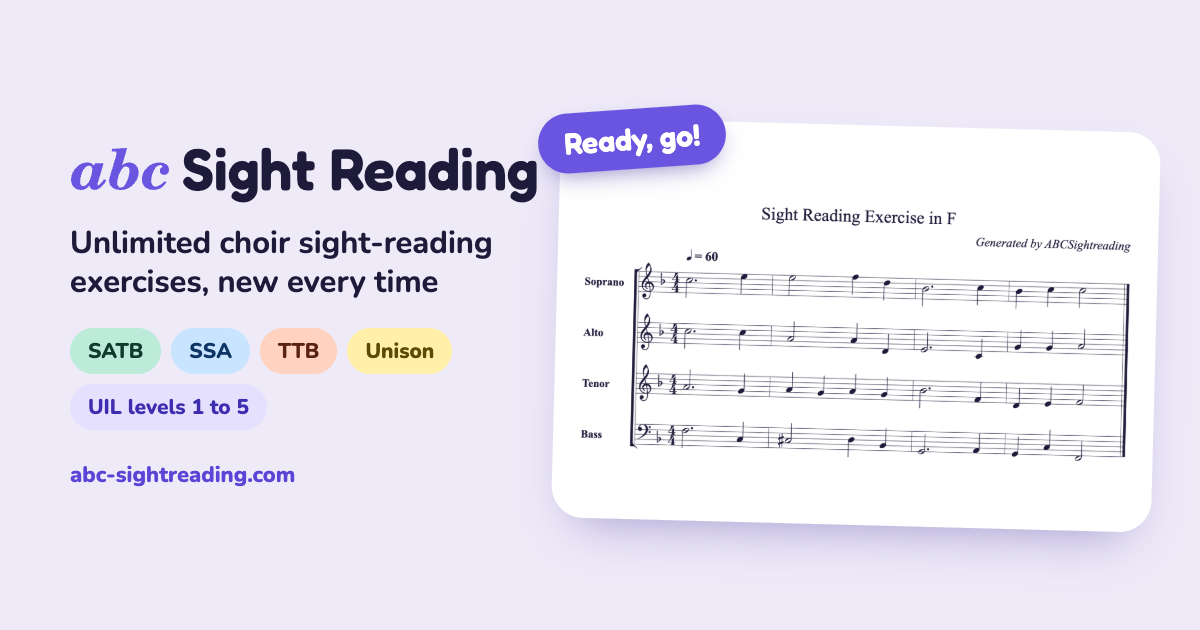
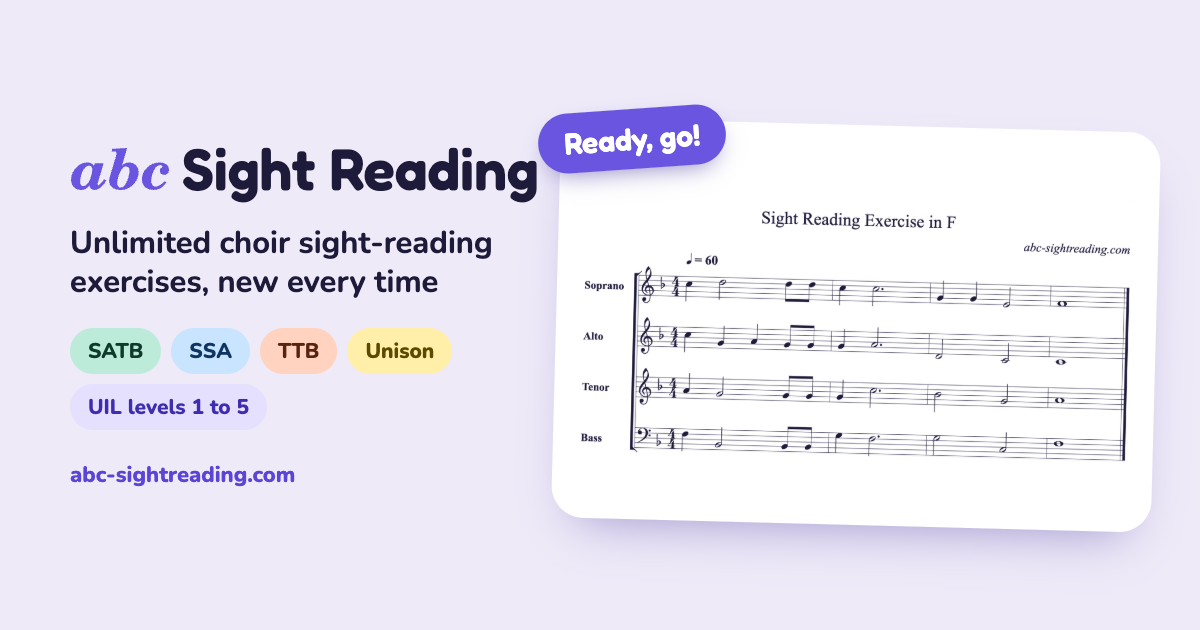
polish: no mid-sentence dashes, the site's address on every score, tempo changes that do not throw
- The settings' notes and labels read with commas, colons and full stops;
  "Key — major" is "Major keys".
- Scores are credited abc-sightreading.com, so a printed copy says where it
  came from. The share image redrawn with it, from the default settings.
- The Choral player builds abcjs's (hidden) tempo box. Every tempo change
  writes to it, and without it setWarp threw part way through: after Stop,
  and mid-play before playback resumed.

diff --git a/src/components/AbcjsChoral.svelte b/src/components/AbcjsChoral.svelte
@@ -1790,7 +1790,10 @@
         applyMixLevels(tracks, { playback: playbackVolume, metronome: metronomeVolume }),
     };
     await synthControl.setTune(tune, false, audioParams);
-    await synthControl.load("#audio", cursorControl);
+    // displayWarp builds abcjs's tempo box in the hidden #audio div. Nothing
+    // shows it, but setWarp (every tempo change) writes to it, and without it
+    // threw part way through: after a Stop, or mid-play before it resumed.
+    await synthControl.load("#audio", cursorControl, { displayWarp: true });
   }
 
   // ── Main generate handler ─────────────────────────────────────────────────
@@ -1913,7 +1916,7 @@
     if (!rhythmsCanFill) {
       generationError =
         `These rhythms cannot fill a bar of ${selectedTimeSignature}. ` +
-        `Add a shorter note - a quarter or an eighth - or change the time signature.`;
+        `Add a shorter note (a quarter or an eighth), or change the time signature.`;
       return;
     }
 
@@ -2253,7 +2256,7 @@
                 <div class="space-y-2 {minorRow ? 'pt-1' : ''}">
                   <div class="flex items-baseline justify-between gap-3">
                     <span class="flex items-baseline gap-2">
-                      <span class="sr-label">Key &mdash; {minorRow ? 'minor' : 'major'}</span>
+                      <span class="sr-label">{minorRow ? 'Minor keys' : 'Major keys'}</span>
                       <span class="text-xs text-sr-faint tabular-nums">{chosen} of {rowKeys.length}</span>
                     </span>
                     <span class="inline-flex items-center gap-0.5 shrink-0">
@@ -2305,13 +2308,13 @@
               {/each}
               {#if selectedKeys.size > 1}
                 <p class="text-xs text-sr-faint">
-                  {selectedKeys.size} keys selected - one is drawn at random each
+                  {selectedKeys.size} keys selected. One is drawn at random each
                   time you generate. Click a key to remove it.
                 </p>
               {/if}
               {#if activePreset}
                 <p class="text-xs text-sr-faint">
-                  Dimmed keys are outside {activePreset.label}, not removed - pick
+                  Dimmed keys are outside {activePreset.label}, not removed. Pick
                   one and you simply leave the level.
                 </p>
               {/if}
@@ -2361,7 +2364,7 @@
                   {:else if formPlan && fullLengthRange}
                     <div class="space-y-1">
                       <p class="sr-label">
-                        Length &mdash; level {fullLengthLevel} wants {fullLengthRange[0]}&ndash;{fullLengthRange[1]} bars in {selectedTimeSignature}
+                        Length: level {fullLengthLevel} wants {fullLengthRange[0]}&ndash;{fullLengthRange[1]} bars in {selectedTimeSignature}
                       </p>
                       <div class="flex flex-wrap gap-2" role="group" aria-label="Full length">
                         {#each [fullLengthRange[0], Math.round((fullLengthRange[0] + fullLengthRange[1]) / 2), fullLengthRange[1]] as opt}
@@ -2398,7 +2401,7 @@
                       {#if formPlan.shortEndingBar}
                         A lower level may stop at bar {formPlan.shortEndingBar}.
                       {/if}
-                      Always major &mdash; minor keys are for the shorter exercises above.
+                      Always major. Minor keys are for the shorter exercises above.
                     </p>
                     <p class="text-xs text-sr-brass">
                       Sections marked &ldquo;toward V&rdquo; or &ldquo;toward vi&rdquo; are planned but not yet
@@ -2414,7 +2417,7 @@
               <p class="sr-label">Voice texture</p>
               {#if fullLength}
                 <p class="text-xs text-sr-muted">
-                  The form decides this per section for a full-length piece &mdash; the imitative
+                  The form decides this per section for a full-length piece: the imitative
                   passage gets staggered entrances and the rest all voices.
                 </p>
               {/if}
@@ -2432,7 +2435,7 @@
                 {voiceTexture === "full"
                   ? "Every part sings throughout, apart from rests in the rhythm."
                   : measures < 12
-                    ? "Parts drop out for a few measures at a time - needs 12 measures or more. Every part is there for the opening and the cadence."
+                    ? "Parts drop out for a few measures at a time. Needs 12 measures or more. Every part is there for the opening and the cadence."
                     : "Parts drop out for a few measures at a time. Every part is there for the opening and the cadence."}
               </p>
             </div>
@@ -2461,7 +2464,7 @@
                 </select>
               </div>
               <p class="text-xs text-sr-faint">
-                Changes the sound straight away - the exercise stays as it is.
+                Changes the sound straight away. The exercise stays as it is.
               </p>
             </div>
 
@@ -2516,14 +2519,14 @@
                   Chord symbols above the top staff{lyricSystem ? ", " : "."}
                 {/if}
                 {#if lyricSystem === "movable"}
-                  Movable do under each part - do is the tonic, so a tune reads the same in
+                  Movable do under each part: do is the tonic, so a tune reads the same in
                   every key.
                 {:else if lyricSystem === "fixed"}
-                  Fixed do under each part - C is do whatever the key.
+                  Fixed do under each part: C is do whatever the key.
                 {:else if lyricSystem === "names"}
                   The note names under each part.
                 {:else if !showChords}
-                  Clean - the same exercise, printed for sight-reading.
+                  Clean: the same exercise, printed for sight-reading.
                 {/if}
               </p>
             </div>
@@ -2625,7 +2628,7 @@
                   {/each}
                 </div>
                 <p class="text-xs text-sr-faint">
-                  Sixteenths are kept rare on purpose - a sung exercise lives on
+                  Sixteenths are kept rare on purpose, since a sung exercise lives on
                   quarters and halves. Turn one up here if you want to drill it.
                 </p>
               </div>
@@ -2639,7 +2642,7 @@
             {#if activePreset}
               <p class="text-xs text-sr-faint">
                 Dimmed rhythms are outside {activePreset.label}. They are still
-                available - picking one just takes you off the level.
+                available. Picking one just takes you off the level.
               </p>
             {/if}
           </div>
@@ -2709,7 +2712,7 @@
                   Pick a chromatic chord to drill: every exercise is built around it, usually
                   more than once, and the other chromatic chords are left out.
                 {:else if [...selectedKeys].every((k) => isMinorKey(k))}
-                  Only minor keys are selected, and these are major-key chords - add a major key
+                  Only minor keys are selected, and these are major-key chords. Add a major key
                   for the focus to apply.
                 {:else}
                   Every exercise in a major key uses {fullChordSet.find(c => c.name === focusChord)?.symbol},
@@ -2765,7 +2768,7 @@
                 <input type="checkbox" bind:checked={stepwiseEighths} class="sr-check" />
                 Eighth notes move by step
               </label>
-              <p class="text-xs text-sr-faint">Stepwise or repeated - no skips into or out of an eighth</p>
+              <p class="text-xs text-sr-faint">Stepwise or repeated: no skips into or out of an eighth</p>
             </div>
 
             <!-- Max Skip -->
@@ -2811,7 +2814,7 @@
     {#if !rhythmsCanFill}
       <p class="text-sm text-sr-brass bg-sr-brass-bg border border-sr-brass rounded-md px-3 py-2 my-2">
         The selected rhythms cannot fill a bar of {selectedTimeSignature}, so nothing
-        can be generated. Add a shorter note - a quarter or an eighth - or change
+        can be generated. Add a shorter note (a quarter or an eighth), or change
         the time signature.
       </p>
     {/if}
@@ -2825,7 +2828,7 @@
     {#if roughSeams.length > 0}
       <p class="text-sm text-sr-brass bg-sr-brass-bg border border-sr-brass rounded-md px-3 py-2 my-2">
         The join after {roughSeams.length === 1 ? "section" : "sections"}
-        {roughSeams.join(", ")} could not be made smooth after several tries &mdash; there may be a
+        {roughSeams.join(", ")} could not be made smooth after several tries. There may be a
         wide leap or a stranded accidental where that section ends. Generating again usually
         clears it.
       </p>

diff --git a/src/components/AbcjsSingle.svelte b/src/components/AbcjsSingle.svelte
@@ -3265,9 +3265,9 @@
               <p class="text-xs text-sr-faint">
                 {rhythmOnly
                   ? (rhythmSoundFor(rhythmSoundId).kind === "click"
-                      ? "A click - every note sounds the same length. Good for attacks."
+                      ? "A click: every note sounds the same length. Good for attacks."
                       : "Sustains, so a held note is heard held.")
-                  : "Changes the sound straight away - the exercise stays as it is."}
+                  : "Changes the sound straight away. The exercise stays as it is."}
               </p>
             </div>
 
@@ -3318,12 +3318,12 @@
               </div>
               <p class="text-xs text-sr-faint">
                 {#if !showSolfege}
-                  Clean - the same exercise, printed for sight-reading.
+                  Clean: the same exercise, printed for sight-reading.
                 {:else if lyricSystem === "movable"}
-                  Movable do under the staff - do is the tonic, so a tune reads the same in
+                  Movable do under the staff: do is the tonic, so a tune reads the same in
                   every key.
                 {:else if lyricSystem === "fixed"}
-                  Fixed do under the staff - C is do whatever the key.
+                  Fixed do under the staff: C is do whatever the key.
                 {:else}
                   The note names under the staff.
                 {/if}
@@ -3468,7 +3468,7 @@
               <div class="space-y-2 sm:col-span-2 border-t border-sr-hairline pt-3">
                 <p class="sr-label">On The Repeats</p>
                 <p class="text-xs text-sr-faint">
-                  The first pass is always your own settings - that is the one
+                  The first pass is always your own settings, since that is the one
                   being sight-read. These are what comes back on the way through again.
                 </p>
 
@@ -3559,7 +3559,7 @@
                         ? 'The repeats click if the metronome is on.'
                         : drillRepeatMetronome === 'on'
                           ? 'The click comes in on the repeats, even with the metronome off.'
-                          : 'No click on the repeats - keep the beat yourself.'}
+                          : 'No click on the repeats. Keep the beat yourself.'}
                     </p>
                   </div>
 
@@ -3609,11 +3609,11 @@
                 {#if repeatsSilent}
                   <p class="text-xs text-sr-faint">
                     Nothing sounds on the repeats. The music still runs, so a repeat takes
-                    exactly as long as the first pass - only the cursor moves.
+                    exactly as long as the first pass. Only the cursor moves.
                   </p>
                 {:else if repeatCountInSilent}
                   <p class="text-xs text-sr-faint">
-                    With no click on the repeats, their count-in is a silent bar - the repeat
+                    With no click on the repeats, their count-in is a silent bar, and the repeat
                     still waits it out.
                   </p>
                 {/if}
@@ -3722,14 +3722,14 @@
                 <p class="text-xs text-sr-faint">
                   {showRhythmSyllables
                     ? syllableHint
-                    : 'No syllables. The exercise is unchanged - turning them back on costs nothing.'}
+                    : 'No syllables. The exercise is unchanged, and turning them back on costs nothing.'}
                   {#if $mySyllables}
                     <a class="underline ml-1" href="/account#syllables">Edit mine</a>
                   {:else if $syllablesAvailable}
                     <a class="underline ml-1" href="/account#syllables">Use your own syllables</a>
                   {/if}
                 </p>
-                <SignupHint id="own-syllables">Want the words your choir uses - ta-a, ti-ka, whatever you teach?</SignupHint>
+                <SignupHint id="own-syllables">Want the words your choir uses (ta-a, ti-ka, whatever you teach)?</SignupHint>
               </div>
             {/if}
           </div>

diff --git a/src/lib/failure-hint.ts b/src/lib/failure-hint.ts
@@ -72,7 +72,7 @@ export function failureHint(ctx: FailureContext): string {
   // and the cells it fails in are exactly the ones the next hint describes:
   // sixteen bars, three or more close parts, minor keys at level 5.
   if (stepwiseEighths && parts.length >= 3 && measures >= 16) {
-    return `Holding eighth notes to a step is what usually makes this combination unwritable - sixteen bars in three or more close parts leaves the voices nowhere to step to. Turn off "Eighth notes move by step" under Rhythm, try 8 bars, or ${room}.`;
+    return `Holding eighth notes to a step is what usually makes this combination unwritable: sixteen bars in three or more close parts leaves the voices nowhere to step to. Turn off "Eighth notes move by step" under Rhythm, try 8 bars, or ${room}.`;
   }
   if (parts.length >= 3 && measures >= 16) {
     return `Sixteen bars in three or more close parts is the hardest thing to ask for. Try 8 bars instead, or ${room}.`;
@@ -82,7 +82,7 @@ export function failureHint(ctx: FailureContext): string {
   if (parts.length >= 3 && tightest !== null && span(tightest) <= 10) {
     // Names the part once. Composing this from `roomHint` said "the Tenor"
     // twice in one breath.
-    return `The ${tightest.name} has the least room of any part here, and three or more voices need somewhere to go. Give it a step or two more at the top, under Voice Ranges - that is usually the end that helps.`;
+    return `The ${tightest.name} has the least room of any part here, and three or more voices need somewhere to go. Give it a step or two more at the top, under Voice Ranges. That is usually the end that helps.`;
   }
   if (chordCount <= 4) {
     return "With this few chords there may be nowhere left for the bass to go. Switching one more on under Harmony usually does it.";

diff --git a/src/lib/abc-score-file.ts b/src/lib/abc-score-file.ts
@@ -134,7 +134,7 @@ export function abcProblems(abc: string): AbcProblem[] {
     const line = normalised.slice(0, blankAt + 1).split("\n").length;
     problems.push({
       kind: "blank-line",
-      message: `There is a blank line at line ${line}. ABC ends the tune there - everything below it is silently dropped from the score. Delete it, or use a % comment line to space things out.`,
+      message: `There is a blank line at line ${line}. ABC ends the tune there, and everything below it is silently dropped from the score. Delete it, or use a % comment line to space things out.`,
     });
   }
   return problems;

diff --git a/src/lib/generateChoral.ts b/src/lib/generateChoral.ts
@@ -520,7 +520,8 @@ function generateChoralExerciseOnce(params: GenerateChoralParams): ChoralExercis
   console.log("6. Assembling ABC String...");
   const abcParams = {
     title: params.title || `Sight Reading Exercise in ${key}`,
-    composer: params.composer || "Generated by ABCSightreading",
+    // On every score, and so on every printed copy handed round a choir room.
+    composer: params.composer || "abc-sightreading.com",
     // meter: timeSig.name, // Removed, passed separately
     // defaultLength: "1/32", // Removed, handled in assembleAbcString
     // key: key, // Removed, passed separately

diff --git a/src/components/tools/ToolPitches.svelte b/src/components/tools/ToolPitches.svelte
@@ -27,7 +27,7 @@
 {#if !$exercise}
   <p class="text-sm text-sr-muted">Generate an exercise, and each part's first note will be here.</p>
 {:else if $exercise.rhythmOnly}
-  <p class="text-sm text-sr-muted">This is a rhythm exercise - there are no pitches to give.</p>
+  <p class="text-sm text-sr-muted">This is a rhythm exercise, so there are no pitches to give.</p>
 {:else}
   <p class="text-sm text-sr-muted">{pitches.length === 1 ? "The first note of this exercise." : "Each part's first note in this exercise."}</p>
   <div class="grid gap-2 {pitches.length > 1 ? 'grid-cols-2' : 'grid-cols-1'}">

diff --git a/src/components/JoinClass.svelte b/src/components/JoinClass.svelte
@@ -103,7 +103,7 @@
           <span class="text-xs text-sr-faint">At least 8 characters. Write it down somewhere safe.</span>
         </label>
       {:else}
-        <p class="text-sm text-sr-muted">You'll join as yourself - your presets and settings come with you.</p>
+        <p class="text-sm text-sr-muted">You'll join as yourself, and your presets and settings come with you.</p>
       {/if}
 
       {#if problem}<p class="text-sm text-sr-danger" role="alert">{problem}</p>{/if}

diff --git a/src/components/PlaybackBar.svelte b/src/components/PlaybackBar.svelte
@@ -430,7 +430,7 @@
         </button>
         {#if uncopied}
           <div class="px-3 pt-1 pb-2 text-xs text-sr-bar-muted">
-            Your browser blocked copying - copy the link from here:
+            Your browser blocked copying. Copy the link from here:
             <input
               class="mt-1 w-full rounded-full bg-sr-bar px-2 py-1 text-xs text-sr-bar-ink ring-1 ring-sr-bar-line"
               readonly

diff --git a/src/components/FeedbackButton.svelte b/src/components/FeedbackButton.svelte
@@ -173,7 +173,7 @@
 
       {#if state === "sent"}
         <p class="text-sm text-sr-ink py-6 text-center">
-          Thank you - that reached me.
+          Thank you, that reached me.
         </p>
       {:else}
         <div class="flex gap-2">
